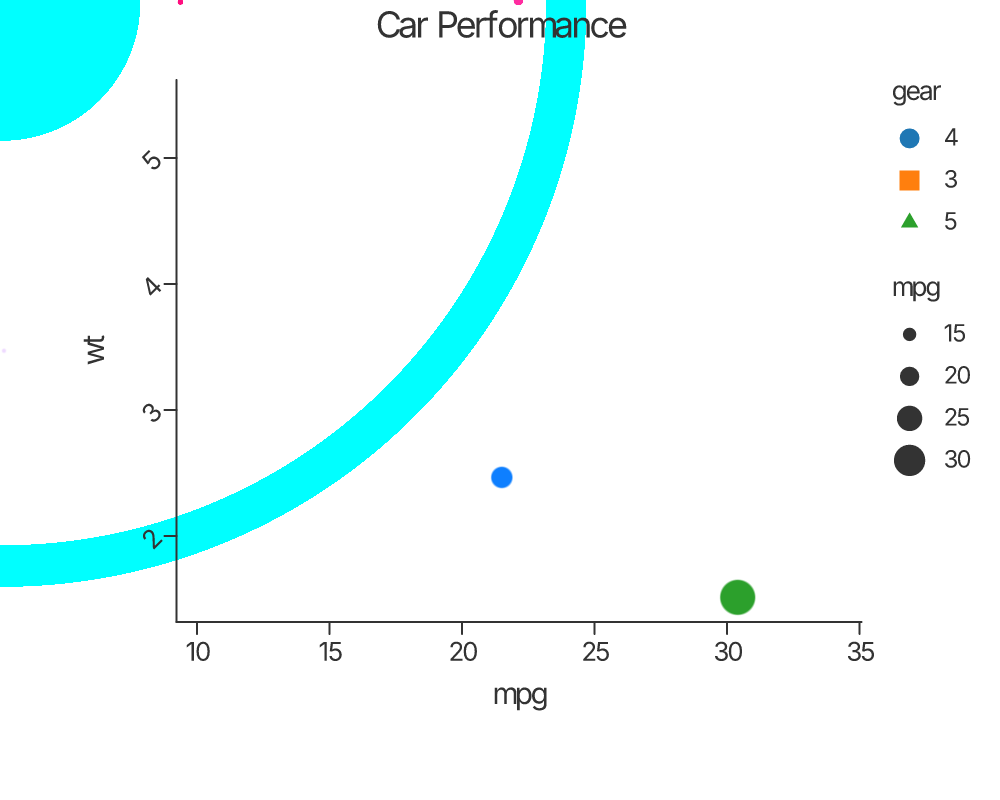
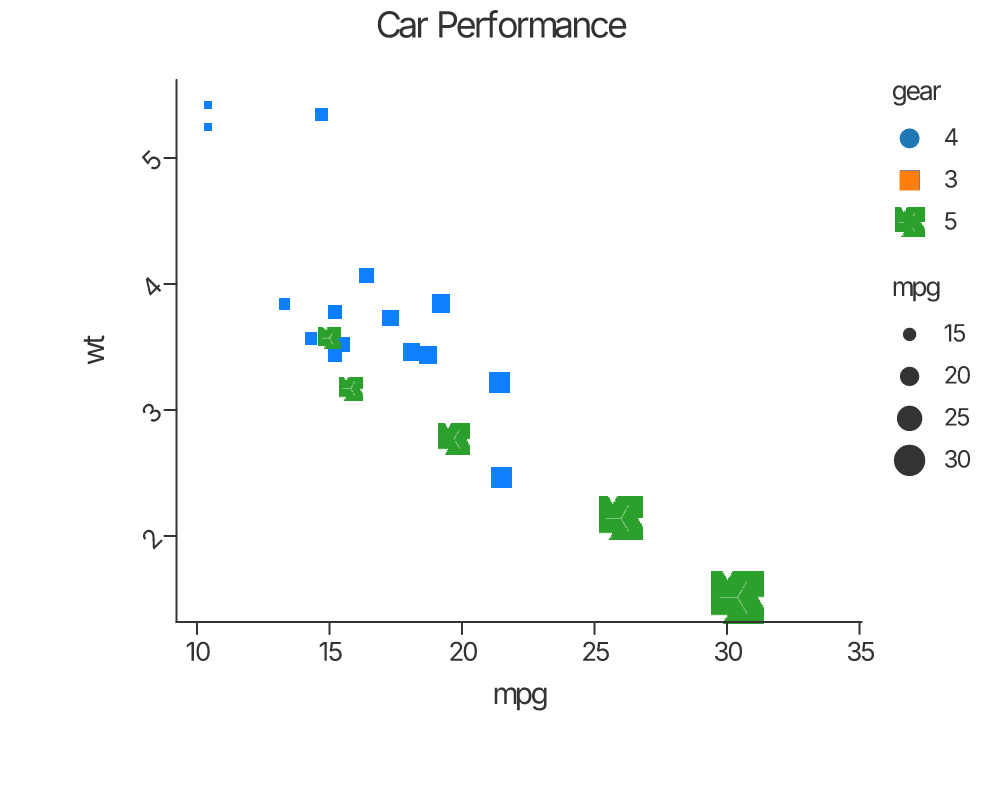
wgpu

diff --git a/src/render/backend/wgpu.rs b/src/render/backend/wgpu.rs
@@ -21,7 +21,6 @@ pub struct GpuPoint {
     pub b: f32,
     pub a: f32,
     pub radius: f32,
-    pub shape_type: f32, // 0:圆 1:方 2:三角 3:星 4:菱形 5:五边形 6:六边形 7:八边形
 }
 
 /// 线图元的GPU数据（对应WGSL的LineData）
@@ -37,6 +36,35 @@ pub struct GpuLine {
     pub b: f32,
     pub a: f32,
     pub width: f32,
+}
+
+/// 矩形图元的GPU数据（对应WGSL的RectData）
+#[repr(C)]
+#[derive(Copy, Clone, Debug, Pod, Zeroable)]
+pub struct GpuRect {
+    pub x: f32,
+    pub y: f32,
+    pub width: f32,
+    pub height: f32,
+    pub r: f32,
+    pub g: f32,
+    pub b: f32,
+    pub a: f32,
+    pub corner_radius: f32,
+}
+
+/// 多边形图元的GPU数据（对应WGSL的PolygonData）
+#[repr(C)]
+#[derive(Copy, Clone, Debug, Pod, Zeroable)]
+pub struct GpuPolygon {
+    pub x: f32,
+    pub y: f32,
+    pub r: f32,
+    pub g: f32,
+    pub b: f32,
+    pub a: f32,
+    pub radius: f32,
+    pub sides: f32,
 }
 
 /// 渐变矩形的GPU数据（对应WGSL的GradientRectData）
@@ -150,11 +178,23 @@ pub struct WgpuBackend {
     main_bind_group: wgpu::BindGroup,
     main_bind_group_layout: wgpu::BindGroupLayout,
 
-    // SDF图元（圆/矩形/多边形）相关
+    // SDF图元（圆）相关
     sdf_pipeline: wgpu::RenderPipeline,
     sdf_buffer: wgpu::Buffer,
     pending_sdf_points: Vec<GpuPoint>,
     uploaded_sdf_count: u32,
+
+    // 矩形图元相关
+    rect_pipeline: wgpu::RenderPipeline,
+    rect_buffer: wgpu::Buffer,
+    pending_rects: Vec<GpuRect>,
+    uploaded_rect_count: u32,
+
+    // 多边形图元相关
+    polygon_pipeline: wgpu::RenderPipeline,
+    polygon_buffer: wgpu::Buffer,
+    pending_polygons: Vec<GpuPolygon>,
+    uploaded_polygon_count: u32,
 
     // 线图元相关
     line_pipeline: wgpu::RenderPipeline,
@@ -256,9 +296,9 @@ impl WgpuBackend {
 
         // 创建初始主绑定组（使用占位缓冲），随后在 flush 时会用真实缓冲替换
         let dummy_circles = Self::create_dummy_buffer::<GpuPoint>(&device);
+        let dummy_rects = Self::create_dummy_buffer::<GpuRect>(&device);
+        let dummy_polys = Self::create_dummy_buffer::<GpuPolygon>(&device);
         let dummy_lines = Self::create_dummy_buffer::<GpuLine>(&device);
-        let dummy_rects = Self::create_dummy_buffer::<GpuPoint>(&device);
-        let dummy_polys = Self::create_dummy_buffer::<GpuPoint>(&device);
         let dummy_grad_rects = Self::create_dummy_buffer::<GpuGradientRect>(&device);
 
         let main_bind_group = device.create_bind_group(&wgpu::BindGroupDescriptor {
@@ -277,12 +317,16 @@ impl WgpuBackend {
         // 创建所有渲染管线（使用 main_bind_group_layout 作为 group0 layout）
         let (_sdf_bg_layout, sdf_pipeline) = Self::create_sdf_pipeline(&device, &shader, &main_bind_group_layout);
         let (_line_bg_layout, line_pipeline) = Self::create_line_pipeline(&device, &shader, &main_bind_group_layout);
+        let rect_pipeline = Self::create_rect_pipeline(&device, &shader, &main_bind_group_layout);
+        let polygon_pipeline = Self::create_polygon_pipeline(&device, &shader, &main_bind_group_layout);
         let path_pipeline = Self::create_path_pipeline(&device, &shader, &main_bind_group_layout);
         let (_grad_bg_layout, gradient_rect_pipeline) = Self::create_gradient_rect_pipeline(&device, &shader, &main_bind_group_layout);
         let (_text_bg_layout, text_pipeline, text_atlas_texture, text_atlas_view, text_atlas_sampler) = Self::create_text_pipeline(&device, &shader, &main_bind_group_layout).await;
 
         // 创建占位缓冲区
         let sdf_buffer = Self::create_dummy_buffer::<GpuPoint>(&device);
+        let rect_buffer = Self::create_dummy_buffer::<GpuRect>(&device);
+        let polygon_buffer = Self::create_dummy_buffer::<GpuPolygon>(&device);
         let line_buffer = Self::create_dummy_buffer::<GpuLine>(&device);
         let path_vertex_buffer = Self::create_dummy_buffer::<PathVertex>(&device);
         let path_index_buffer = Self::create_dummy_buffer::<u16>(&device);
@@ -301,6 +345,16 @@ impl WgpuBackend {
             sdf_buffer,
             pending_sdf_points: Vec::with_capacity(30_000),
             uploaded_sdf_count: 0,
+
+            rect_pipeline,
+            rect_buffer,
+            pending_rects: Vec::with_capacity(10_000),
+            uploaded_rect_count: 0,
+
+            polygon_pipeline,
+            polygon_buffer,
+            pending_polygons: Vec::with_capacity(10_000),
+            uploaded_polygon_count: 0,
 
             line_pipeline,
             line_buffer,
@@ -482,6 +536,98 @@ impl WgpuBackend {
         });
 
         (line_bind_group_layout, pipeline)
+    }
+
+    fn create_rect_pipeline(
+        device: &wgpu::Device,
+        shader: &wgpu::ShaderModule,
+        main_layout: &wgpu::BindGroupLayout,
+    ) -> wgpu::RenderPipeline {
+        let pipeline_layout = device.create_pipeline_layout(&wgpu::PipelineLayoutDescriptor {
+            label: Some("Rect Pipeline Layout"),
+            bind_group_layouts: &[Some(main_layout)],
+            immediate_size: 0,
+        });
+
+        device.create_render_pipeline(&wgpu::RenderPipelineDescriptor {
+            label: Some("Rect Render Pipeline"),
+            layout: Some(&pipeline_layout),
+            vertex: wgpu::VertexState {
+                module: shader,
+                entry_point: Some("rect_vs"),
+                buffers: &[],
+                compilation_options: wgpu::PipelineCompilationOptions::default(),
+            },
+            fragment: Some(wgpu::FragmentState {
+                module: shader,
+                entry_point: Some("rect_fs"),
+                targets: &[Some(wgpu::ColorTargetState {
+                    format: wgpu::TextureFormat::Rgba8Unorm,
+                    blend: Some(wgpu::BlendState::ALPHA_BLENDING),
+                    write_mask: wgpu::ColorWrites::ALL,
+                })],
+                compilation_options: wgpu::PipelineCompilationOptions::default(),
+            }),
+            primitive: wgpu::PrimitiveState {
+                topology: wgpu::PrimitiveTopology::TriangleStrip,
+                strip_index_format: None,
+                front_face: wgpu::FrontFace::Ccw,
+                cull_mode: None,
+                unclipped_depth: false,
+                polygon_mode: wgpu::PolygonMode::Fill,
+                conservative: false,
+            },
+            depth_stencil: None,
+            multisample: wgpu::MultisampleState::default(),
+            multiview_mask: None,
+            cache: None,
+        })
+    }
+
+    fn create_polygon_pipeline(
+        device: &wgpu::Device,
+        shader: &wgpu::ShaderModule,
+        main_layout: &wgpu::BindGroupLayout,
+    ) -> wgpu::RenderPipeline {
+        let pipeline_layout = device.create_pipeline_layout(&wgpu::PipelineLayoutDescriptor {
+            label: Some("Polygon Pipeline Layout"),
+            bind_group_layouts: &[Some(main_layout)],
+            immediate_size: 0,
+        });
+
+        device.create_render_pipeline(&wgpu::RenderPipelineDescriptor {
+            label: Some("Polygon Render Pipeline"),
+            layout: Some(&pipeline_layout),
+            vertex: wgpu::VertexState {
+                module: shader,
+                entry_point: Some("polygon_vs"),
+                buffers: &[],
+                compilation_options: wgpu::PipelineCompilationOptions::default(),
+            },
+            fragment: Some(wgpu::FragmentState {
+                module: shader,
+                entry_point: Some("polygon_fs"),
+                targets: &[Some(wgpu::ColorTargetState {
+                    format: wgpu::TextureFormat::Rgba8Unorm,
+                    blend: Some(wgpu::BlendState::ALPHA_BLENDING),
+                    write_mask: wgpu::ColorWrites::ALL,
+                })],
+                compilation_options: wgpu::PipelineCompilationOptions::default(),
+            }),
+            primitive: wgpu::PrimitiveState {
+                topology: wgpu::PrimitiveTopology::TriangleStrip,
+                strip_index_format: None,
+                front_face: wgpu::FrontFace::Ccw,
+                cull_mode: None,
+                unclipped_depth: false,
+                polygon_mode: wgpu::PolygonMode::Fill,
+                conservative: false,
+            },
+            depth_stencil: None,
+            multisample: wgpu::MultisampleState::default(),
+            multiview_mask: None,
+            cache: None,
+        })
     }
 
     fn create_path_pipeline(
@@ -700,6 +846,20 @@ struct Out { @builtin(position) clip_pos: vec4<f32>, @location(0) color: vec4<f3
             self.uploaded_sdf_count = points.len() as u32;
         }
 
+        // 更新矩形缓冲区
+        if !self.pending_rects.is_empty() {
+            let rects = std::mem::take(&mut self.pending_rects);
+            self.rect_buffer = self.create_buffer(&rects);
+            self.uploaded_rect_count = rects.len() as u32;
+        }
+
+        // 更新多边形缓冲区
+        if !self.pending_polygons.is_empty() {
+            let polygons = std::mem::take(&mut self.pending_polygons);
+            self.polygon_buffer = self.create_buffer(&polygons);
+            self.uploaded_polygon_count = polygons.len() as u32;
+        }
+
         // 更新线缓冲区
         if !self.pending_lines.is_empty() {
             let lines = std::mem::take(&mut self.pending_lines);
@@ -733,8 +893,8 @@ struct Out { @builtin(position) clip_pos: vec4<f32>, @location(0) color: vec4<f3
             entries: &[
                 wgpu::BindGroupEntry { binding: 0, resource: wgpu::BindingResource::Buffer(self.sdf_buffer.as_entire_buffer_binding()) },
                 wgpu::BindGroupEntry { binding: 1, resource: wgpu::BindingResource::Buffer(self.line_buffer.as_entire_buffer_binding()) },
-                wgpu::BindGroupEntry { binding: 2, resource: wgpu::BindingResource::Buffer(self.sdf_buffer.as_entire_buffer_binding()) },
-                wgpu::BindGroupEntry { binding: 3, resource: wgpu::BindingResource::Buffer(self.sdf_buffer.as_entire_buffer_binding()) },
+                wgpu::BindGroupEntry { binding: 2, resource: wgpu::BindingResource::Buffer(self.rect_buffer.as_entire_buffer_binding()) },
+                wgpu::BindGroupEntry { binding: 3, resource: wgpu::BindingResource::Buffer(self.polygon_buffer.as_entire_buffer_binding()) },
                 wgpu::BindGroupEntry { binding: 4, resource: wgpu::BindingResource::Buffer(self.gradient_rect_buffer.as_entire_buffer_binding()) },
                 wgpu::BindGroupEntry { binding: 5, resource: wgpu::BindingResource::Buffer(self.uniform_buffer.as_entire_buffer_binding()) },
             ],
@@ -768,11 +928,25 @@ struct Out { @builtin(position) clip_pos: vec4<f32>, @location(0) color: vec4<f3
                 multiview_mask: None,
             });
 
-            // 渲染SDF图元
+            // 渲染SDF图元（圆）
             if self.uploaded_sdf_count > 0 {
                 rpass.set_pipeline(&self.sdf_pipeline);
                 rpass.set_bind_group(0, &self.main_bind_group, &[]);
                 rpass.draw(0..4, 0..self.uploaded_sdf_count);
+            }
+
+            // 渲染矩形图元
+            if self.uploaded_rect_count > 0 {
+                rpass.set_pipeline(&self.rect_pipeline);
+                rpass.set_bind_group(0, &self.main_bind_group, &[]);
+                rpass.draw(0..4, 0..self.uploaded_rect_count);
+            }
+
+            // 渲染多边形图元
+            if self.uploaded_polygon_count > 0 {
+                rpass.set_pipeline(&self.polygon_pipeline);
+                rpass.set_bind_group(0, &self.main_bind_group, &[]);
+                rpass.draw(0..4, 0..self.uploaded_polygon_count);
             }
 
             // 渲染线图元
@@ -833,21 +1007,21 @@ impl RenderBackend for WgpuBackend {
             b: rgba[2],
             a: rgba[3] * config.opacity as f32,
             radius: config.radius as f32,
-            shape_type: 0.0,
         });
     }
 
     fn draw_rect(&mut self, config: RectConfig) {
         let rgba = config.fill.rgba();
-        self.pending_sdf_points.push(GpuPoint {
-            x: (config.x + config.width / 2.0) as f32,
-            y: (config.y + config.height / 2.0) as f32,
+        self.pending_rects.push(GpuRect {
+            x: config.x as f32,
+            y: config.y as f32,
+            width: config.width as f32,
+            height: config.height as f32,
             r: rgba[0],
             g: rgba[1],
             b: rgba[2],
             a: rgba[3] * config.opacity as f32,
-            radius: (config.width / 2.0) as f32,
-            shape_type: 1.0,
+            corner_radius: 0.0,
         });
     }
 
@@ -879,16 +1053,16 @@ impl RenderBackend for WgpuBackend {
             }
         }
 
-        let shape_type = match vertex_count {
-            3 => 2.0,
-            4 => 1.0,
+        let sides = match vertex_count {
+            3 => 3.0,
+            4 => 4.0,
             5 => 5.0,
             6 => 6.0,
-            8 => 7.0,
-            _ => 0.0,
+            8 => 8.0,
+            _ => 4.0,
         };
 
-        self.pending_sdf_points.push(GpuPoint {
+        self.pending_polygons.push(GpuPolygon {
             x: cx,
             y: cy,
             r: fill_color[0],
@@ -896,7 +1070,7 @@ impl RenderBackend for WgpuBackend {
             b: fill_color[2],
             a: fill_color[3] * alpha,
             radius: max_r,
-            shape_type,
+            sides,
         });
     }
 
